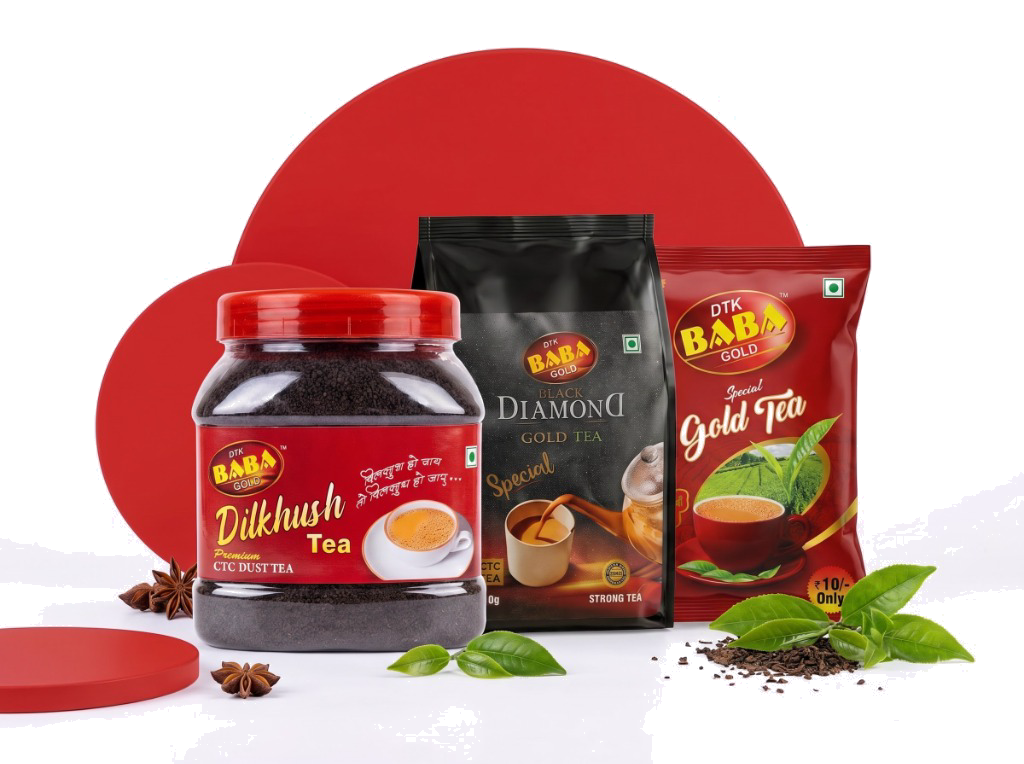
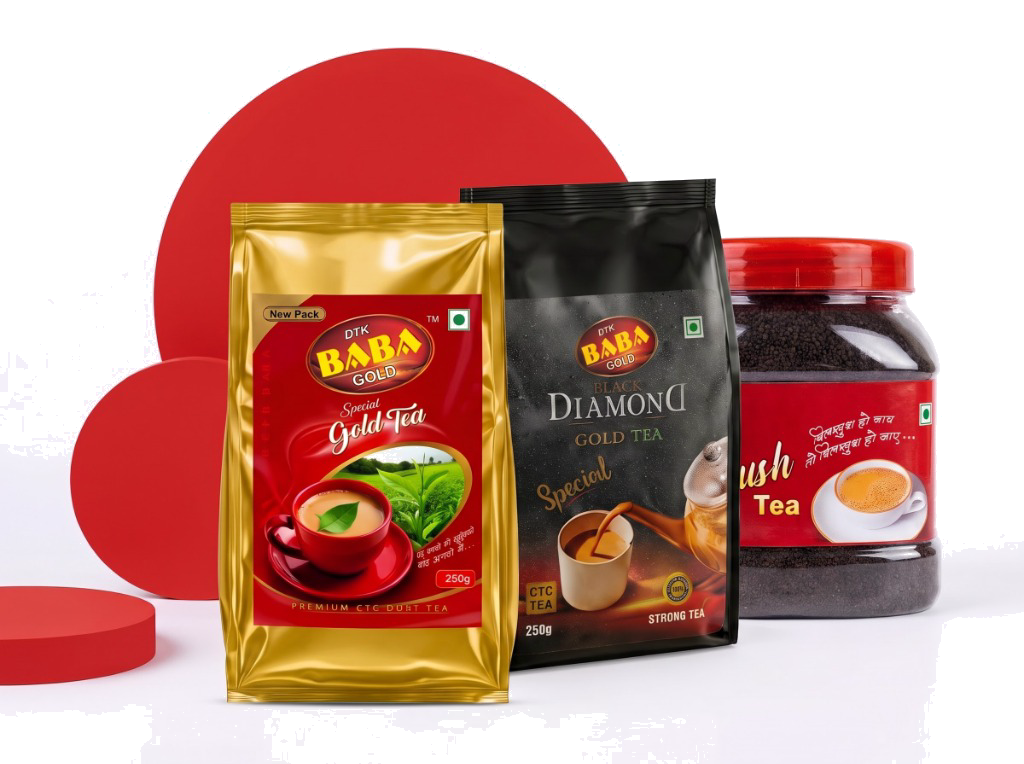
Update centerpiece with new composite product image (transparent background)

diff --git a/index.html b/index.html
@@ -123,7 +123,7 @@
       <div class="hero-centerpiece">
         <!-- Rotating Tilted Bottle -->
         <div class="bottle-wrapper">
-          <img src="assets/centerpiece.png?v=3" alt="Baba Gold Tea Products" class="hero-bottle-img">
+          <img src="assets/centerpiece.png?v=4" alt="Baba Gold Tea Products" class="hero-bottle-img">
         </div>
       </div>
 
